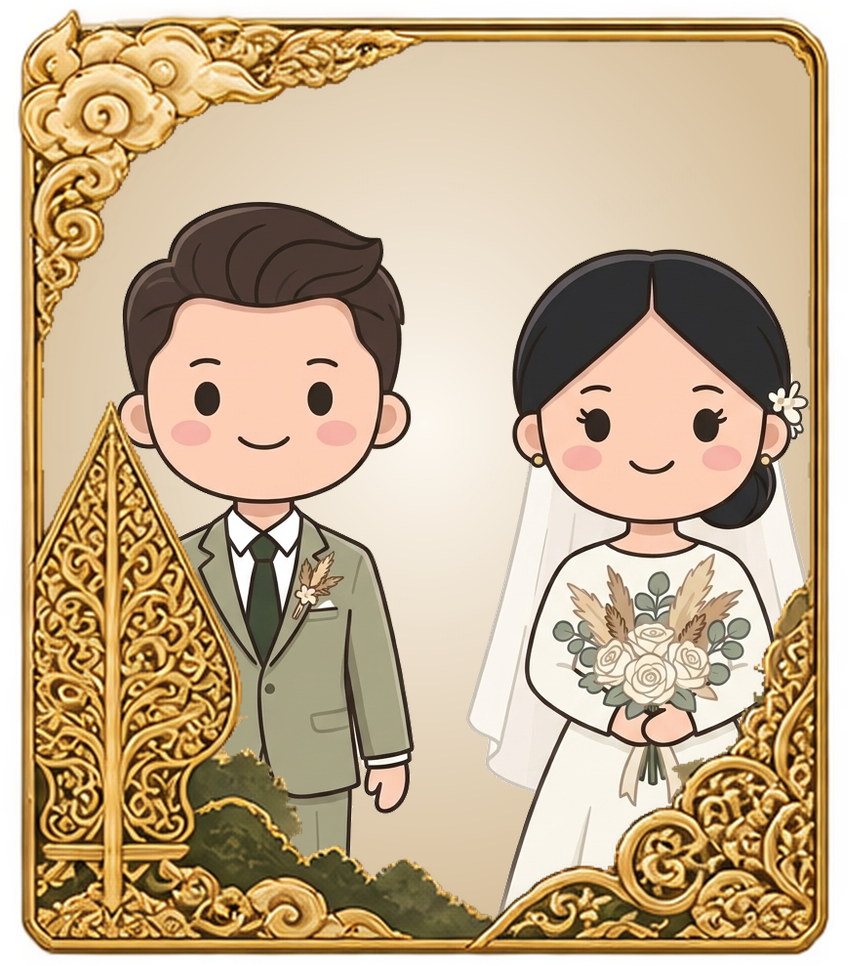
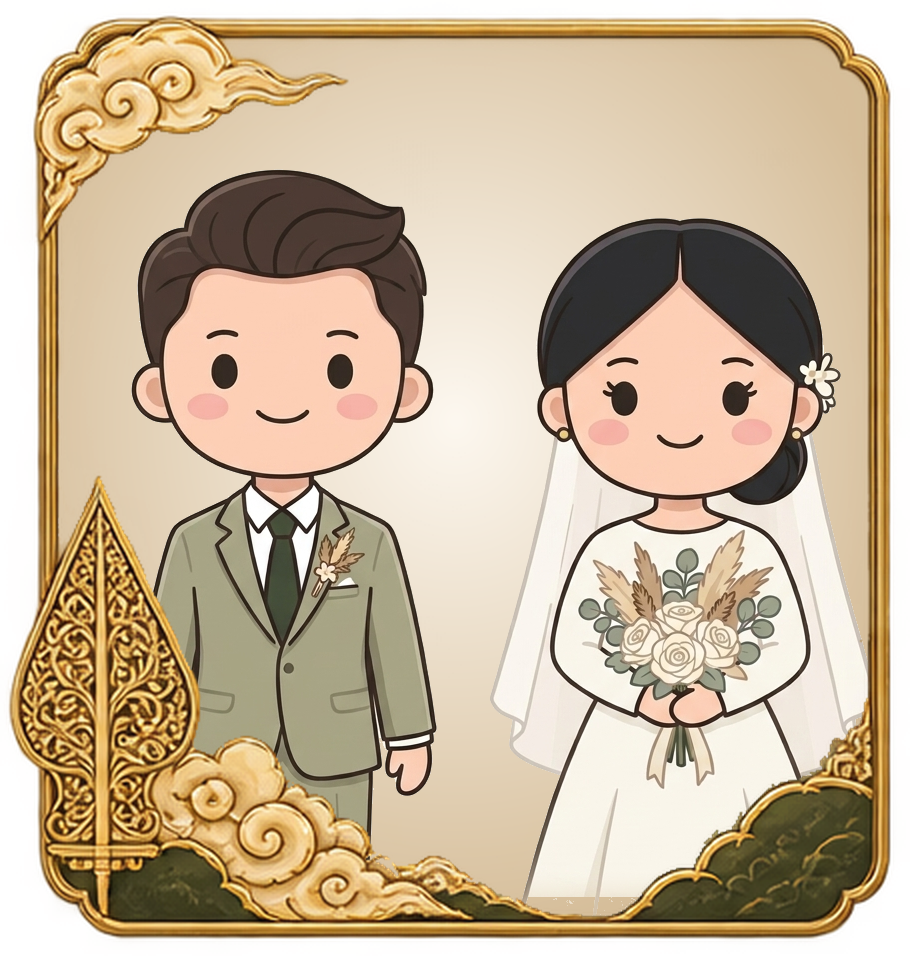
style(undangan_tf_17): switch hero portrait frame to bingkai_3

diff --git a/undangan_tf_17/index.html b/undangan_tf_17/index.html
@@ -20,7 +20,7 @@
   <script src="js/tailwind.config.js"></script>
 
   <!-- Custom Stylesheet -->
-  <link rel="stylesheet" href="css/style.css?v=20261120a">
+  <link rel="stylesheet" href="css/style.css?v=20261120b">
 </head>
 
 <body class="selection:bg-[#525135] selection:text-[#F6E4CE]">
@@ -394,7 +394,7 @@
             </div>
           </div>
 
-          <!-- Rustic Watercolor Arch Frame Portrait (bingkai_1 + Couple) -->
+          <!-- Rustic Watercolor Arch Frame Portrait (bingkai_3 + Couple) -->
           <div
             class="hero-anim hero-anim-main-photo hero-delay-3 hero-frame-compact relative mx-auto flex items-center justify-center">
             <img src="asset/img/mempelai/hero_mempelai_berbingkai.png" alt="Mempelai Raka &amp; Sinta"

diff --git a/undangan_tf_17/css/style.css b/undangan_tf_17/css/style.css
@@ -2702,7 +2702,7 @@ body {
 
 #home .hero-frame-compact {
   width: clamp(192px, 26dvh, 224px);
-  aspect-ratio: 848 / 966;
+  aspect-ratio: 910 / 956;
 }
 
 /* ==========================================================
